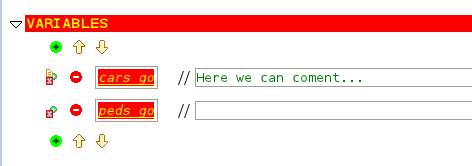
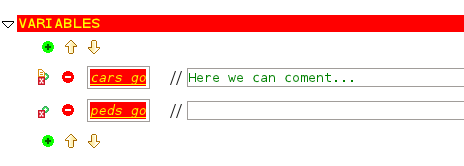
Improving screenshots of tutorial 3 and explanations of tutorial 10
git-svn-id: svn://svn.code.sf.net/p/rodin-b-sharp/svn/trunk/Handbook@12374 1434b563-b632-4741-aa49-43a3a8374d2e

diff --git a/org.rodinp.handbook.feature/latex/tutorial-10.tex b/org.rodinp.handbook.feature/latex/tutorial-10.tex
@@ -4,21 +4,34 @@
 \tick{\textbf{Goals:} The objective of this section is to create a model of the Location Access Controler, and besides detail more complex proofs in order to approach the notion of deadlock freeness.}
 
 \info {First of all you need to download the following file named doors.zip}
+\subsection{Initial Model}
+Through this model, we shall study a complete system and remind the proof rules of formal development.
+What should be established at the very outset is that the system concerns people and locations. Actually, we will construct a model in order to control the access of certain people to different locations of a site.
+The system is thus based on the authorization that a person has or not to penetrate several locations.
+Besides we introduce:
+\begin{itemize}
+	\item The two carrier sets of persons, P, and locations, L
+	\item The constant authorization, \textbf{aut}, representing a relation between P and L, actually where people are allowed to go (Axiom 1).
+	\item The variable, \textbf{sit}, which denote where a person is, \textbf{sit} is a function from P to L.
+\end{itemize}  
+Moreover, we introduce a special constant “location”, named \textbf{outside}. Everyone is authorized to be in outside (Axiom 3) and a person cannot be in two locations at a time. However every person, which is in a certain location, is authorized to be there.
+
+Initially, everyone is outside as indicated in event \textsf{INITIALISATION}.
+The other event \textsf{PASS} of that model has to aim to change the location of a person.
+
 \subsection{Project Setup}
 Import the archive file doors.zip, for this select  \textsf{File $\rangle$ Import $\rangle$ General $\rangle$ Existing Project into workspace}, and find your file by using the button browse.
 
 The tool takes a few seconds to extract and load all the files. Once it is done, you can look at the initial model through doors\_ctx1 and doors\_0.
-We can notice that there are two carrier sets in the program, actually we have one for the persons (represented by P) and one for locations (represented by L).
+We can notice that there are our two carrier sets in the program (represented by P and L).
 \begin{center}
 	\includegraphics[]{img/tutorial/tut_10_carrier-sets.png}
 \end{center}
-Moreover the relation \textbf{aut} represents where people are allowed to go (for example, \textbf{outside} is a location, and everyone is allowed to go \textbf{outside}).
 
-The only \textsf{EVENT} of that model has to aim to change the location of a person.
 So, proof of deadlock freeness means proving, that someone can always change room.
 
 Nevertheless you need to add a new derived invariant to doors\_0. We call this invariant \texttt{DLF}.
-In the same time, add the associated predicate which is the disfunction of all guards: there is only one guard here, so it would be,
+In the same time, add the associated predicate which is the dysfunction of all guards: there is only one guard here, so it would be,
 \[
 \exists p,l.(p \longmapsto l \in aut \land sit(p) \neq l )
 \]
@@ -42,17 +55,20 @@ At first glance, we can notice that the auto provers failed to prove the theorem
 \end{center}
 
 Besides we can established that there may be an inconsistency in our model.
-In order to succeed with the proof, we need a tuple \[ p \mapsto l \]that is in aut, but not in sit. Searching the hypotheses, we find AXM4 of doors\_ctx1, which states that there is a location l, where everyone is allowed to go. So, for every person p in P, \[p \mapsto l \] and \[p \mapsto outside\] is in aut. Since these are different, at least one of them cannot be in the function sit. Now, all we would need to prove is that P is nonempty. This holds, as carrier sets always are nonempty, but is a bit hard to derive.
+In order to succeed with the proof, we need a tuple \[ p \mapsto l \]that is in aut, but not in sit. Searching the hypotheses, we find the Axiom 4 of doors\_ctx1, which states that there is a location l, where everyone is allowed to go. So, for every person p in P, \[p \mapsto l \] and \[p \mapsto outside\] is in aut. Since these are different, at least one of them cannot be in the function sit. Now, all we would need to prove is that P is nonempty. 
 
 \warning{In the Proof Control view, first disable the post-tactics (there is a dedicated button in this view on the top right corner, up to the toolbar).}
 \begin{center}
 	\includegraphics[]{img/tutorial/tut_10_view_menu.png}
 \end{center}
-
-So we have to add the following hypothesis in the window called \textsf{Proof Control} :
+We have seen that we want to prove  
+\[
+P \neq \emptyset
+\]So we have to replace that by adding the following hypothesis in the window called \textsf{Proof Control}:
 \[
 \exists x.x \in P 
 \]
+
 Then click on the \textbf{ah} (Add Hypothesis) button.
 \begin{center}
 	\includegraphics[]{img/tutorial/tut_10_hypothesis.png}
@@ -109,47 +125,77 @@ Now click on p0, it would be proved.
 
 \subsection{First Refinement}
 
-Now we get to a bit harder proof: The deadlock freeness proof for the first refinement. There is not much that has changed. The constant com has been added in order to describe which rooms are connected. Additionally, we have a constant exit, which will be explained later. The post-tactics should still be disabled. 
+Now we get to a bit harder proof: the deadlock freeness proof for the first refinement. This refinement will consist to add the new constant \textbf{com} illustrating the notion of possible direct communication between two locations.
+
+Besides \textbf{com} is a binary relation built on the carrier set L. A location does not “communicate” with itself as stated in the Axiom 1 of the doors\_ctx2.
+
+Concerning the events, \textsf{INITIALISATION} does not change, whereas the event \textsf{PASS} is refined as a consequence. Indeed we estimate that a person can move to another location l if there is the authorization to be in l (already defined in the abstraction) and also location l communicates with the location where p is at this precise moment (represented by sit(p)).
+
+Consequently, the guard of this new event version is better than the precedent, since we have :
+
+\[
+( sit(p) \mapsto l \in com ) \Rightarrow ( sit(p)\neq l )
+\]
+
+In fact, we are obviously faced with a difficulty here; it is not possible to prove that the refined event \textsf{PASS} does not happen less often than its more abstract homologue. To demonstrate this, we would have to prove that the guard of the abstract event implies that of the concrete event
+
+The issue is that this condition cannot be verified in general. Moreover the failure to prove the above condition indicates that there are possibilities that certain people could stay permanently blocked in locations. Besides the geometry of communication between locations clearly intoduces an additional constraint limiting the way people can move.
+
+As a consequence our study has revealed a problem in our method that was obviously ignored in the document requirements.
+So we must find a sufficient solution.
+\[
+
+\]
 
 At the beginning of this section we need to come back to the \textsf{Event-B view}.
-Open doors\_1 machine
-
--add a derived invariant (theorem) called DLF stating 
+First of all open doors\_1 machine and add the derived invariant (theorem) called DLF stating 
 
 \[
 \exists q,m.(q \mapsto m \in aut \land sit(q) \mapsto m \in com )
 \]
+In other words, the location sit(p), is in communication with at least one other location l, in which p is authorized to go:
+the person p can therefore go out of the the location sit(p), via l.
 
 \begin{center}
 	\includegraphics[]{img/tutorial/tut_10_invariants2.png}
 \end{center}
 
--save the file
+Then we save the file. After switching to the proving view (the post-tactics should still be disabled), we can notice that once again, the prover fails to prove deadlock freeness automatically. 
+All that we want is "any person authorized to be in a location must also be authorized to go in another location which communicates with the first one".
 
--Switch to the proving view.
-
--Once again, the prover fails to prove deadlock freeness automatically. 
-
--At the beginning of the proof, there are no selected hypothesis at all. So we need to select a few. The old deadlock freeness invariant will be useful, AXM7 of doors\_ctx2 too. To begin with, we try to avoid using exit, as we want to keep things as simple as possible. But since sit and aut are inside the invariant, we also are likely to need:
+\[
+\]
+At the beginning of the proof, there are no selected hypothesis at all. So we need to select a few. The old deadlock freeness invariant will be useful, and the Axiom 7 of doors\_ctx2 too. To begin with, we try to avoid using exit, as we want to keep things as simple as possible. But since \textbf{sit} and \textbf{aut} are inside the invariant, we also need to prove:
 
 \[
 sit \subseteq aut
 \]
-and
+%and
+%\[
+%sit \in P \mapsto L
+%\]
+
+Once again, the prover automatically rewrites the existential quantifiers in the hypotheses. We now look at the proof. There is an easy case if sit(p) = outside. Add this case as previously with a case distinction (dc) and solve it. For q, the choice p is obvious. For m, you will use the existential quantifier of Axiom 7 to instantiate m with l as l0. 
+Axiom 7 proves that we have no deadlock for people who are outside.
+
 \[
-sit \in P \mapsto L
 \]
+For the other case, we will need the notion of \textbf{exit}. This function \textbf{exit} is connecting locations to locations and defined at every location except \textbf{out}. 
+We can look at the axioms of doors\_ctx2. 
+\begin{center}
+	\includegraphics[]{img/tutorial/tut_10_axioms.png}
+\end{center}
 
-Once again, the prover automatically rewrites the existential quantifiers in the hypotheses. We now look at the proof. There is an easy case if sit(p) = outside. Add this case as previously with a case distinction (dc) and solve it. For q, the choice p is obvious. For m, you will use the existential quantifier of AXM7 to instantiate m with l as l0. 
-
-For the other case, we will need the notion of exit. The axioms about exit state that 
+It states that :
 
 \begin{itemize}
-	\item (AXM 3) Every room except the outside has exactly one exit. 
-	\item (AXM 4) An exit must be a room that communicates with the current one
-	\item (AXM 5) A chain of exits leads to the outside without any cycles or infinite paths
-	\item (AXM 6) Everyone allowed in a room is allowed to go through its exit. 
+	\item (Axiom 3) Every room except the outside has exactly one exit. 
+	\item (Axiom 4) An exit must be a room that communicates with the current one
+	\item (Axiom 5) A chain of exits leads to the outside without any cycles or infinite paths
+	\item (Axiom 6) Everyone allowed in a room is allowed to go through its exit. 
 \end{itemize}  
 
-In our proof, we still need to show that anyone who is not outside can walk through a door. For this, AXM 5 is useless, so we add all hypothesis containing exit except for AXM 5. Now we only need to instantiate q and m correctly and concluding the proof should not be too hard. Once again, for q, the choice p is obvious. But it is not quite as easy for m. Expressed in language, m must be the room behind the exit door of the room that p is currently in. Try translating this into set theory. But do not worry if you get it wrong. You can still go back in the proof by right-clicking at the desired point in the proof tree and choosing prune.
+In our proof, we still need to show that anyone who is not outside can walk through a door. For this, Axiom 5 is useless, so we add all hypothesis containing exit except for Axiom 5. Now we have to instantiate q and m correctly and to conclude that the proof should not be too hard. Once again, for q, the choice p is obvious. But it is not quite as easy for m. Expressed in language, m must be the room behind the exit door of the room that p is currently in. 
+
+\info{Try translating this into set theory. But do not worry if you get it wrong. You can still go back in the proof by right-clicking at the desired point in the proof tree and choosing prune in order to retry.}
 
